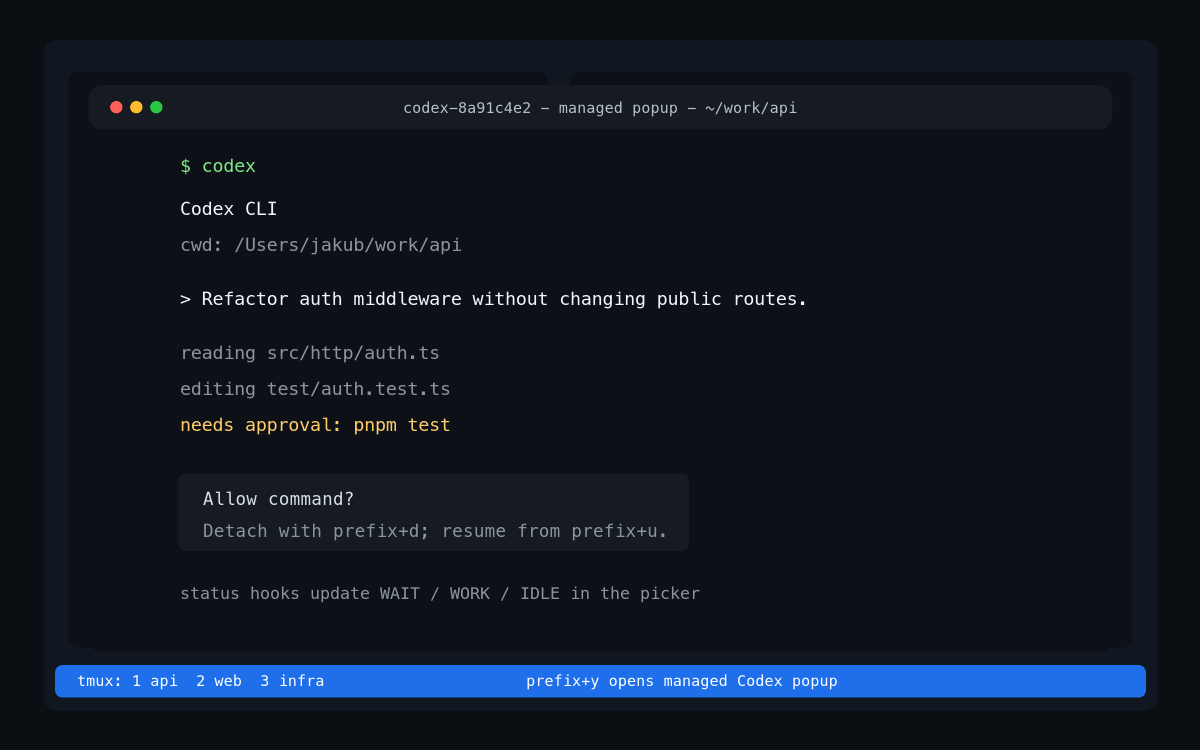
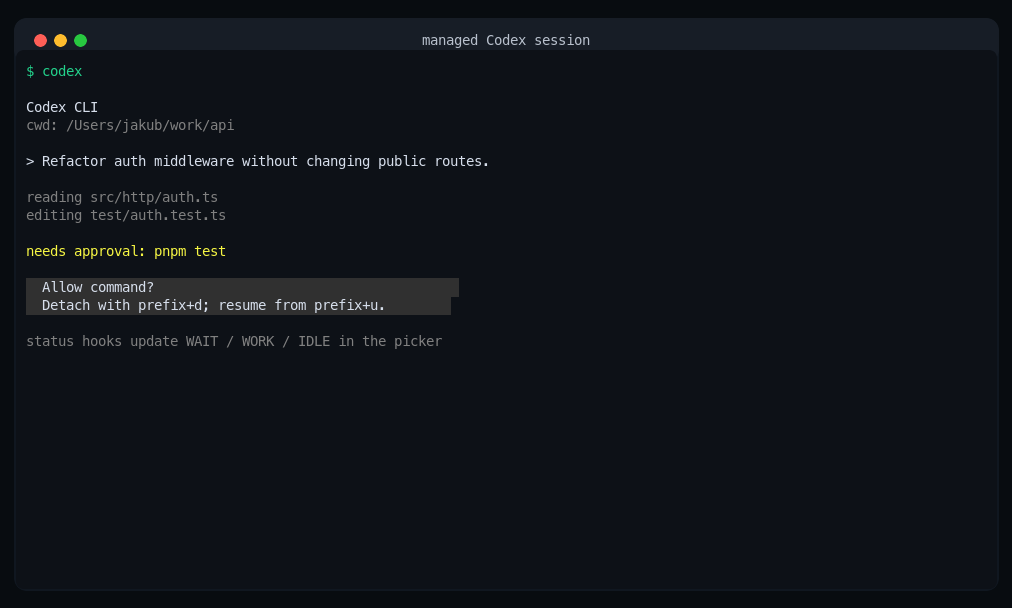
Replace README art with terminal captures

diff --git a/README.md b/README.md
@@ -21,15 +21,28 @@ remaining context, project path, and the latest prompt/title from
 
 ## Screenshots
 
-![Codex session picker with status, source, context, project path, prompt title, and live preview](docs/picker.png)
+The screenshots below are rendered from real tmux/fzf captures with sanitized
+demo paths and prompts.
 
-The picker is the control surface: jump into a managed popup, switch to an
+![Codex switcher with status, source, context, path, title, target, and live preview](docs/picker.png)
+
+The switcher is the control surface: jump into a managed popup, switch to an
 existing Codex pane, preview output, or kill only plugin-managed sessions.
 
-![Codex session running inside a tmux popup over the project window](docs/popup.png)
+![Switcher row for an existing Codex pane, with preview on the right](docs/existing-pane.png)
+
+Existing Codex panes are first-class rows. They show as `PANE`, can be previewed,
+and `enter` switches tmux to that pane.
+
+![Managed Codex session running in the tmux popup](docs/popup.png)
 
 Managed sessions are normal tmux sessions named with the configured prefix. They
 survive detach, terminal restarts, SSH disconnects, and laptop sleep.
+
+![Hook installer showing idempotent merge behavior](docs/hooks.png)
+
+The hook installer merges this plugin's Codex hooks into an existing hooks file,
+creates backups, and skips commands that are already present.
 
 ## Features
 
